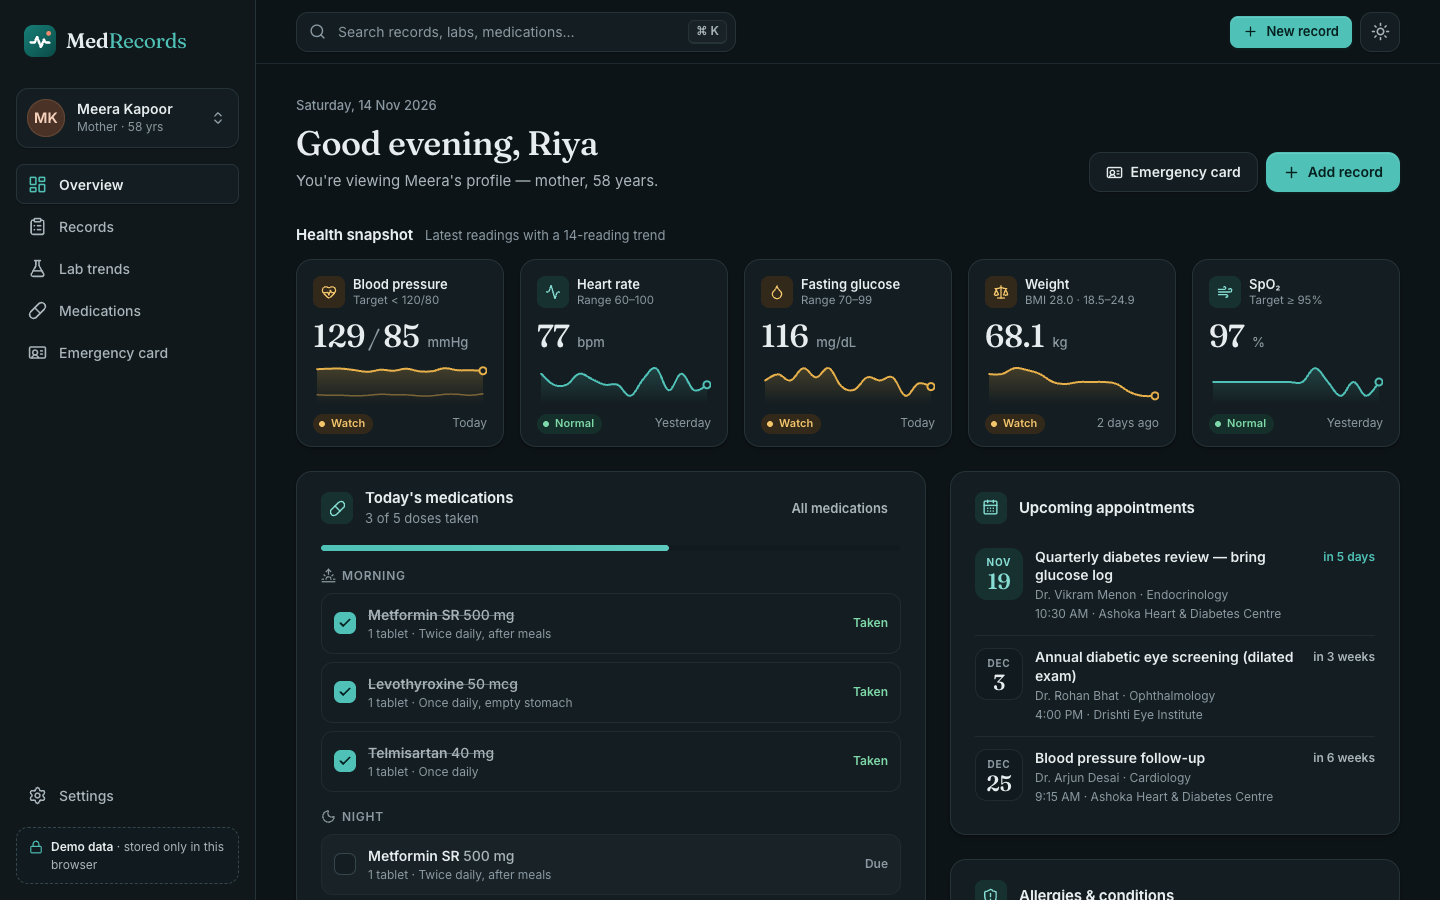
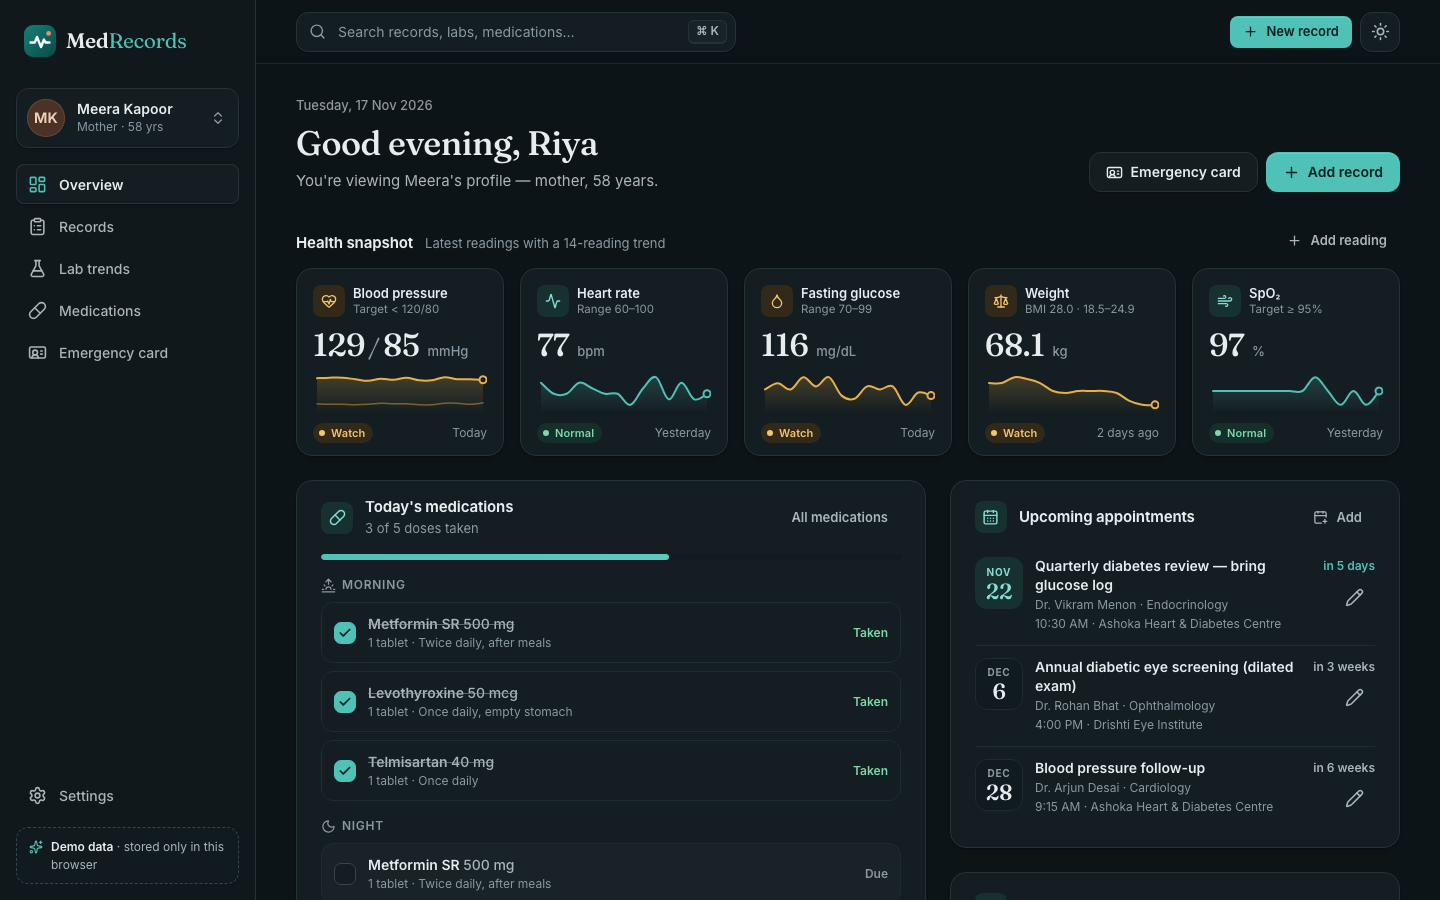
Add GUIDE.md and update the README
- GUIDE.md: a short guide to using MedRecords, keeping data safe and
  maintaining the project, plus troubleshooting.
- README: replace "Demo data only" with how the app works now, link the
  guide near the top, describe the lock, backups and security, keep the
  "not medical advice" disclaimer, and refresh the screenshots (plus new
  welcome and lock screen shots).

diff --git a/README.md b/README.md
@@ -8,24 +8,27 @@
 
 A privacy-first personal health record hub for the whole family — visits, lab trends, medications and an emergency card — that runs entirely in your browser.
 
-**[Live demo →](https://gargshishirr.github.io/MedRecords/)**
+**[Open the app →](https://gargshishirr.github.io/MedRecords/)** · **[How to use it (guide) →](GUIDE.md)**
 
 </div>
 
 ![Overview dashboard](docs/screenshots/overview.png)
 
-> **Demo data only.** Every person, clinician, facility and phone number in the app is fictional. Data is stored only in your browser's `localStorage` — there is no backend, no account and no analytics. MedRecords is a portfolio project, not a medical device, and nothing in it is medical advice.
+> **Try the demo or use it for your family.** On the first visit you choose: explore a fictional demo family, or start fresh with your own. Everything stays in this browser on this device. There is no backend, no account and no analytics. You can lock it with a passcode to encrypt it. Every person, clinician and phone number in the demo is fictional. MedRecords is not a medical device, and nothing in it is medical advice.
 
 ## Features
 
-- **Family profiles** — switch between Riya (29), her mother Meera (58, type 2 diabetes + hypertension) and her son Kabir (6). Each profile has its own records, vitals, labs, medications, appointments, allergies, conditions, blood group and emergency contacts, with ~18 months of generated history.
-- **Overview dashboard** — vitals snapshot (blood pressure, heart rate, fasting glucose, weight/BMI, SpO₂) with sparklines and *Normal / Watch / High* status derived from age- and sex-aware reference ranges; a "today's medications" checklist that persists per day; upcoming appointments; latest lab results with out-of-range flags; allergies & conditions; recent activity.
-- **Records timeline** — visits, lab reports, prescriptions, imaging, vaccinations and documents grouped by month, with type filters, full-text search and sorting. Records open in a slide-over detail panel with lab results, notes and (placeholder) attachments. An accessible *Add record* form validates input and saves instantly.
-- **Lab trends** — hand-built SVG line charts with the reference range drawn as a shaded band, highlighted out-of-range points, hover **and keyboard** tooltips (Tab / arrow keys), latest value, change vs. previous and a toggleable data table.
-- **Medications** — active and past medicines with dose, schedule (morning / afternoon / night), prescriber and start date; a 7-day adherence ring computed from the checklist; refill countdowns that turn amber and coral as supply runs low.
-- **Emergency card** — an ID-card style summary (blood group, allergies, conditions, current medicines, emergency contacts, primary doctor) with a QR code that encodes a plain-text summary, plus a print stylesheet that prints just the card.
-- **⌘K / Ctrl+K command palette** — jump to any page, record, lab test or medication, switch profiles or toggle the theme from the keyboard.
-- **Settings** — light / dark / system theme, JSON export, validated JSON import and one-click reset of the demo data.
+- **Your family or the demo** — the first visit offers *Try the demo* (Riya, Meera and Kabir, with ~18 months of generated history) or *Start fresh*. You can switch later in Settings.
+- **Family members** — add, edit and delete people: name, birth date, sex, blood group, height, allergies, conditions, emergency contacts and primary doctor.
+- **Overview dashboard** — vitals snapshot (blood pressure, heart rate, fasting glucose, weight/BMI, SpO₂) with sparklines and *Normal / Watch / High* status from age- and sex-aware reference ranges; add readings; a daily medication checklist; upcoming appointments you can add, edit and delete; latest lab results; allergies & conditions; recent activity.
+- **Records timeline** — visits, lab reports, prescriptions, imaging, vaccinations and documents grouped by month, with type filters, search and sorting. Add, edit and delete records with an accessible, validated form.
+- **Lab trends** — hand-built SVG line charts with the reference range as a shaded band, out-of-range points, hover **and keyboard** tooltips and a data table. Add, edit and delete results.
+- **Medications** — active and past medicines with dose, schedule and prescriber; a 7-day adherence ring from the checklist; refill countdowns. Add, edit and delete medicines.
+- **Emergency card** — an ID-card style summary with a QR code that holds plain text only. You choose whether it shows the date of birth, conditions, medicines and doctor. A print stylesheet prints just the card.
+- **Passcode lock (optional)** — encrypts all health data in the browser with AES-GCM and a key from your passcode (PBKDF2-SHA-256, 600,000 iterations). Auto-locks after inactivity, locks every open tab, and slows down wrong guesses.
+- **Backups** — export an encrypted (passcode) or plain JSON backup; import either. Imports are size-limited and strictly validated.
+- **⌘K / Ctrl+K command palette** — jump to any page, record, lab test or medicine, add things, switch people, toggle the theme or lock the app.
+- **Settings** — family members, the lock, backups, start fresh, demo data and a light / dark / system theme.
 
 ## Screenshots
 
@@ -37,11 +40,21 @@ A privacy-first personal health record hub for the whole family — visits, lab 
 | **Lab trends** — reference band, flagged points, keyboard tooltips | **Medications** — adherence ring, checklist and refills |
 | ![Emergency card](docs/screenshots/emergency-card.png) | ![Dark theme](docs/screenshots/dark-overview.png) |
 | **Emergency card** — printable, with QR summary | **Dark theme** — full token-based theme |
+| ![First visit](docs/screenshots/welcome.png) | ![Lock screen](docs/screenshots/lock-screen.png) |
+| **First visit** — try the demo or start fresh | **Lock screen** — data stays encrypted until you unlock |
 
 <p align="center">
   <img src="docs/screenshots/mobile-overview.png" width="320" alt="Mobile overview with bottom tab bar" />
   <br /><em>Mobile layout with a bottom tab bar (360 px and up)</em>
 </p>
+
+## Security & privacy
+
+- **No servers involved.** No backend, no account, no analytics, no third-party requests. Fonts are self-hosted.
+- **Encryption at rest (optional).** WebCrypto only: PBKDF2-SHA-256 (600,000 iterations, random 16-byte salt) derives a non-extractable AES-GCM key at unlock. Every save uses a fresh 12-byte IV. Storage holds only `{ v, salt, iv, ct }` — never the passcode or key. While locked, nothing readable is in `localStorage` (the theme setting stays plain).
+- **Hardened import.** 5 MB limit, strict schema validation that rebuilds every object from a whitelist (unknown keys are dropped), `__proto__` / `constructor` / `prototype` keys are stripped, and errors are written for people.
+- **Content-Security-Policy.** Production builds get a CSP `<meta>` tag (`script-src 'self'`, no inline scripts or styles, `object-src 'none'` and more), `referrer: no-referrer`, and a frame guard because a meta CSP can't set `frame-ancestors`.
+- **No health data in URLs.** Links between pages pass ids through router state, not the address bar.
 
 ## Accessibility & design
 
@@ -60,9 +73,10 @@ A privacy-first personal health record hub for the whole family — visits, lab 
 - Hand-built **SVG charts** (sparklines, line chart with reference bands, adherence ring)
 - **lucide-react** icons, self-hosted **Inter** and **Fraunces** variable fonts via `@fontsource`
 - **qrcode** for the emergency-card QR code (lazy-loaded)
-- `localStorage` persistence with a versioned schema key (`medrecords:data:v1`) and import validation
+- `localStorage` persistence with a versioned schema key (`medrecords:data:v1`, or `medrecords:vault:v1` when locked) and strict import validation
+- **WebCrypto** (PBKDF2 + AES-GCM) for the optional passcode lock and encrypted backups
 - **Vitest** + **Testing Library** + jsdom, **ESLint** (flat config, typescript-eslint, react-hooks)
-- **GitHub Actions** → GitHub Pages deployment
+- **GitHub Actions** — CI on pull requests, then GitHub Pages deployment from `main`
 
 ## Getting started
 
@@ -75,7 +89,7 @@ npm install
 npm run dev
 ```
 
-Then open the URL Vite prints (usually http://localhost:5173). The demo data is generated on first load; use **Settings → Reset demo data** to start over.
+Then open the URL Vite prints (usually http://localhost:5173). Choose **Try the demo** or **Start fresh**. You can switch later in **Settings**.
 
 ## Scripts
 
@@ -92,24 +106,36 @@ Then open the URL Vite prints (usually http://localhost:5173). The demo data is 
 
 ```
 .
-├── .github/workflows/deploy.yml   # Build, test and deploy to GitHub Pages on push to main
+├── .github/workflows/
+│   ├── ci.yml                     # Lint, typecheck, test and build every pull request
+│   └── deploy.yml                 # Same checks, then deploy to GitHub Pages on push to main
 ├── docs/screenshots/              # README images
-├── public/favicon.svg             # SVG logo mark
+├── public/
+│   ├── favicon.svg                # SVG logo mark
+│   └── theme-init.js              # Theme before first paint + frame guard (no inline scripts)
 ├── index.html
-├── vite.config.ts                 # base: './' so assets resolve under /MedRecords/
+├── vite.config.ts                 # base: './' for GitHub Pages; build-only CSP plugin
+├── GUIDE.md                       # Short guide: use, keep safe, maintain
 └── src/
-    ├── main.tsx / App.tsx         # Entry point, providers and routes
+    ├── main.tsx / App.tsx         # Entry point, providers, welcome/lock gate and routes
     ├── styles/                    # tokens.css (light + dark design tokens), global.css
     ├── lib/                       # Framework-free logic (unit tested)
     │   ├── types.ts               # Data model
     │   ├── seed.ts                # Deterministic fictional demo data (~18 months)
-    │   ├── store.ts               # localStorage persistence, import validation, pure updates
+    │   ├── store.ts               # Storage keys and pure add/edit/delete updates
+    │   ├── validate.ts            # Strict schema validation for stored data and imports
+    │   ├── crypto.ts              # PBKDF2 + AES-GCM encryption (WebCrypto)
+    │   ├── backup.ts              # Plain and encrypted backup files
+    │   ├── throttle.ts            # Growing delays after wrong passcodes
+    │   ├── forms.ts, recordForm.ts # Form validation
     │   ├── ranges.ts              # Reference ranges + normal/watch/high/low classification
     │   ├── meds.ts                # Dose schedule, adherence and refill calculations
-    │   ├── recordForm.ts          # Add-record validation
     │   └── date.ts, format.ts, selectors.ts, hooks.ts
-    ├── state/                     # React context: data store, theme, toasts
+    ├── state/                     # React context: data store + lock, theme, toasts, idle timer
     ├── components/
+    │   ├── gate/                  # Welcome screen and lock screen
+    │   ├── family/                # Add/edit family member form and dialog
+    │   ├── forms/                 # Shared form pieces (errors, passcode input, actions)
     │   ├── shell/                 # App shell: sidebar, top bar, bottom nav, profile switcher
     │   ├── charts/                # Sparkline, LineChart, Ring (pure SVG)
     │   ├── ui/                    # Button, Card, Dialog, Field, Pill, Avatar, EmptyState
@@ -119,11 +145,15 @@ Then open the URL Vite prints (usually http://localhost:5173). The demo data is 
 
 ## Deployment
 
-Pushing to `main` runs `.github/workflows/deploy.yml`, which lints, tests and builds the app, then publishes `dist/` to the `gh-pages` branch. GitHub Pages serves that branch (**Settings → Pages → Source: Deploy from a branch → `gh-pages` / root**).
+Pull requests (and pushes to other branches) run `.github/workflows/ci.yml`: lint, typecheck, test and build.
+
+Pushing to `main` runs `.github/workflows/deploy.yml`, which lints, tests and builds the app, then publishes `dist/` to the `gh-pages` branch. GitHub Pages serves that branch (**Settings → Pages → Source: Deploy from a branch → `gh-pages` / root**). So merging a pull request into `main` makes it live.
 
 ## Privacy
 
-MedRecords never sends data anywhere. Everything — including records you add — lives in your browser's `localStorage` under `medrecords:data:v1` and can be exported, imported or wiped from Settings. Clearing site data removes it completely.
+MedRecords never sends data anywhere. Everything lives in this browser's `localStorage`: under `medrecords:data:v1`, or encrypted under `medrecords:vault:v1` when a passcode is set. You can export, import or wipe it from Settings. Clearing the site's data in the browser deletes it completely, so export backups regularly.
+
+If you forget the passcode, the data cannot be recovered. Keep a backup.
 
 ---
 

diff --git a/GUIDE.md b/GUIDE.md
@@ -1,0 +1,106 @@
+# MedRecords guide
+
+## What it is
+
+MedRecords keeps your family's health records in one place.
+It runs only in your browser. There is no server and no account.
+
+Open it at **https://gargshishirr.github.io/MedRecords/**.
+
+## Features
+
+- A profile for each family member.
+- Records: visits, lab reports, prescriptions, scans, vaccines and documents.
+- Lab trends with charts and reference ranges.
+- Medicines with a daily checklist and refill reminders.
+- Appointments and health readings (blood pressure, weight and more).
+- An emergency card with a QR code you can print.
+- An optional passcode lock that encrypts everything.
+- Backups you can export and import.
+- Light and dark themes, a ⌘K / Ctrl+K search, and it works on phones.
+
+## How to use
+
+### First visit
+
+- Choose **Try the demo** to look around with a fictional family.
+- Choose **Start fresh** to use it for your own family.
+- Already tried the demo? Go to **Settings → Start fresh**.
+
+### Add your family
+
+- Click **Add a family member**. Start with yourself.
+- Only the name, birth date and sex are needed. Add the rest later.
+- Switch between people with the profile menu (top left, or your initials on a phone).
+- Edit or delete people in **Settings → Family members**.
+
+### Records, labs and medicines
+
+- **Records → Add record** for visits, reports and other papers.
+- **Lab trends → Add result** for numbers like HbA1c or cholesterol.
+- **Medications → Add medication**. Tick morning, afternoon or night to see it in the daily checklist.
+- **Overview** has **Add reading** (vitals) and appointments (**Add**).
+- To change or delete something, open it and use **Edit** or **Delete**.
+
+### The emergency card
+
+- Open **Emergency card**. Check the details, then click **Print card**.
+- The QR code holds plain text only: exactly what the page shows.
+- Under **Show on the card**, untick what you don't want on it.
+
+### The lock
+
+- **Settings → Lock with a passcode**. Use at least 8 characters.
+- The app locks after 5 minutes without use. You can change the time.
+- **Lock now** (in Settings or ⌘K) locks all open tabs.
+- Wrong passcodes make you wait longer each time.
+
+### Backups
+
+- **Settings → Export**. Pick **Encrypted** (needs a passcode) or **Plain JSON**.
+- **Settings → Import** loads a backup and replaces what is there. It asks first.
+
+## Keep it safe
+
+- Your data stays in this browser on this device. Other devices can't see it.
+- Use the lock on shared devices. Don't let the browser save the passcode there.
+- If you forget the passcode, the data can't be recovered. Keep a backup.
+- Back up regularly, and keep backups somewhere private.
+- Clearing browser data (or "site data") deletes everything.
+- It is not medical advice. Always check with your doctor.
+
+## Maintain it
+
+### Run it locally
+
+```bash
+nvm use            # Node 22
+npm ci
+npm run dev        # http://localhost:5173
+```
+
+### Run the tests
+
+```bash
+npm run lint && npm run typecheck && npm test && npm run build
+```
+
+### How deploys work
+
+- Every pull request runs the checks (`.github/workflows/ci.yml`).
+- Merge to `main` → `deploy.yml` checks, builds and publishes to GitHub Pages.
+- It is live a minute or two later.
+
+### Updating dependencies
+
+- Run `npm outdated` to see what is old.
+- Update in small steps (`npm update`, or one major version at a time).
+- Run the tests and `npm run build`, then open a pull request.
+
+## Troubleshooting
+
+- **"MedRecords is locked" and I forgot the passcode.** It can't be reset. Use **Forgot your passcode? → Erase all data**, then import a backup.
+- **My data is gone.** The browser's site data was cleared, or you are in another browser or a private window. Import your latest backup.
+- **The import fails.** Use a MedRecords backup file under 5 MB. The message says what is wrong.
+- **The lock option is missing.** Open the app over HTTPS in an up-to-date browser. Encryption needs it.
+- **It locks too often.** Change **Settings → Lock after**.
